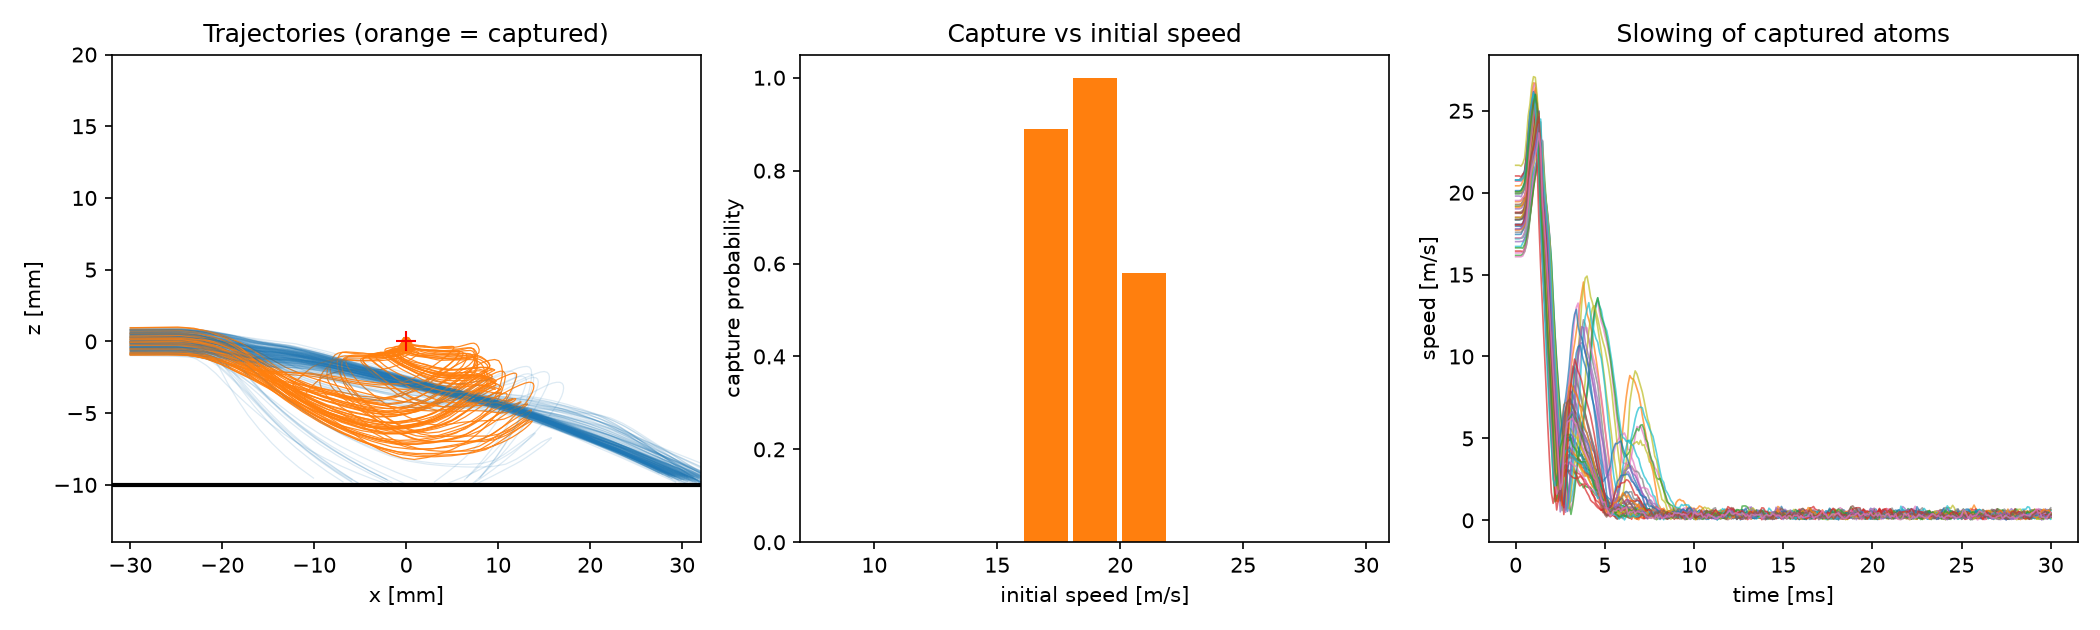
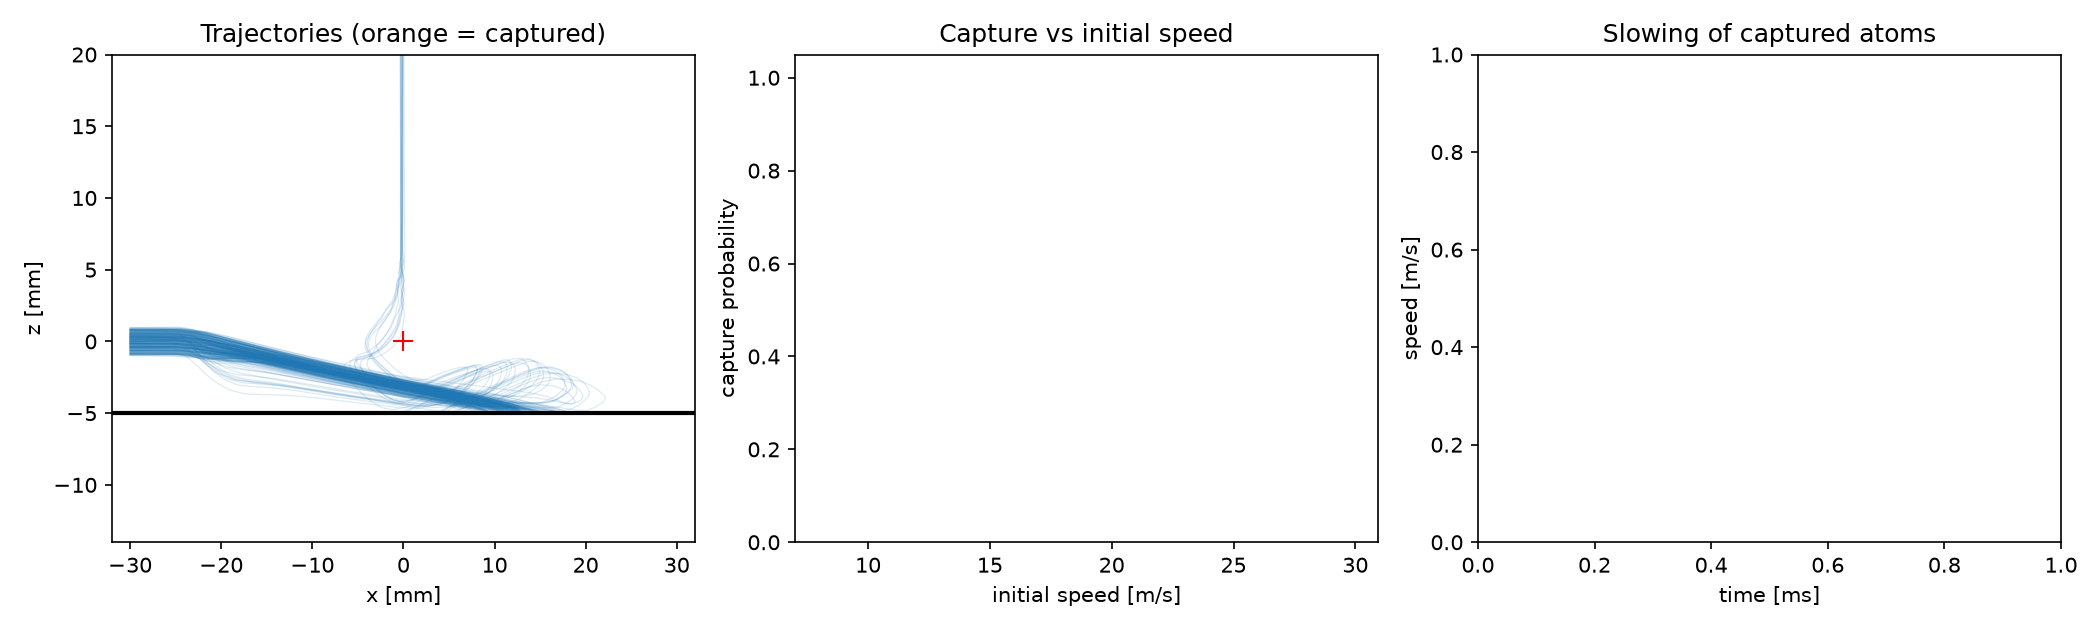
Grating-MOT example: default summary+GIF outputs, balance warning
- The simulation now saves the summary figure and capture GIF by
  default (--no-summary / --no-gif to skip; --plot to also show
  interactively).
- Print the z-momentum balance ratio 3*eta with a warning when the
  diffracted orders over/under-balance the incident beam (only
  eta = 1/3 gives a stable trap; the 1/cos(alpha) intensity compression
  exactly cancels the cos(alpha) force projection, so alpha drops out).
- Document the two trajectory-shaping imbalances in the docstring,
  including the Doppler tilt: a transversely moving atom keeps full
  scattering from the perpendicular incident beam while co-propagating
  diffracted beams are Doppler-suppressed, so the incoming flux sags
  toward the chip independent of eta.

diff --git a/example/mot/mmwave_mot.py b/example/mot/mmwave_mot.py
@@ -30,6 +30,22 @@ below it simply see zero light (they are lost in practice and never
 counted as captured); the zeroth diffraction order and grating losses
 are absorbed into the per-sector efficiency.
 
+Two force imbalances shape the trajectories:
+
+- Static balance: the z-momentum flux ratio of diffracted to incident
+  light is exactly `3 * eta` — the 1/cos(alpha) intensity compression
+  of each diffracted beam cancels the cos(alpha) projection of its
+  push. Only `eta = 1/3` balances; larger eta ejects slow atoms upward,
+  smaller lets the incident beam press the cloud toward the chip.
+- Doppler tilt (why the incoming flux sags toward the chip): for an
+  atom crossing at ~20 m/s the incident beam is perpendicular to the
+  motion (no Doppler shift, full scattering rate, pushing down), while
+  the up-pushing diffracted beams with a co-propagating +x component
+  are Doppler-shifted ~1.5 Gamma out of resonance. The one diffracted
+  beam that is counter-propagating (and Doppler-enhanced) only exists
+  downstream of the trap center. Net: every fast atom is pushed toward
+  the chip while it approaches, independent of eta.
+
 Because a 600 K beam is far faster than any MOT capture velocity, only
 the slow Boltzmann tail can be captured. The simulation samples the
 effusive flux distribution `f(v) ~ v^3 exp(-v^2 / 2 sigma^2)` truncated
@@ -39,10 +55,10 @@ analytically).
 
 Run from the repository root:
 
-    python3 example/mot/mmwave_mot.py
+    python3 example/mot/mmwave_mot.py                 # sim + summary + GIF
     python3 example/mot/mmwave_mot.py --atoms 500 --vmax 35
-    python3 example/mot/mmwave_mot.py --save-plot
-    python3 example/mot/mmwave_mot.py --gif   # animated capture GIF
+    python3 example/mot/mmwave_mot.py --no-gif        # skip the animation
+    python3 example/mot/mmwave_mot.py --save-beams    # beam geometry only
 """
 
 from __future__ import annotations
@@ -382,12 +398,22 @@ def main() -> None:
     parser.add_argument("--duration-ms", type=float, default=30.0)
     parser.add_argument("--detuning-gamma", type=float, default=DETUNING_GAMMA)
     parser.add_argument("--seed", type=int, default=42)
-    parser.add_argument("--plot", action="store_true")
-    parser.add_argument("--save-plot", action="store_true")
+    parser.add_argument(
+        "--plot",
+        action="store_true",
+        help="also show the summary figure interactively",
+    )
+    parser.add_argument(
+        "--summary",
+        action=argparse.BooleanOptionalAction,
+        default=True,
+        help="save the summary figure (default on; --no-summary to skip)",
+    )
     parser.add_argument(
         "--gif",
-        action="store_true",
-        help="render an animated GIF of the capture next to this script",
+        action=argparse.BooleanOptionalAction,
+        default=True,
+        help="render the capture GIF (default on; --no-gif to skip)",
     )
     parser.add_argument(
         "--beams",
@@ -427,6 +453,9 @@ def main() -> None:
         f"  deflection angle    : {np.rad2deg(DEFLECTION_ALPHA_RAD):.0f} deg, "
         f"efficiency {DIFFRACTION_EFFICIENCY:.2f}/sector"
     )
+    balance = 3.0 * DIFFRACTION_EFFICIENCY
+    note = "" if abs(balance - 1.0) < 0.05 else "  <-- UNBALANCED, no stable trap"
+    print(f"  z-momentum balance  : 3*eta = {balance:.2f} (1.00 = balanced){note}")
     print(
         f"  simulated window    : v < {args.vmax:.0f} m/s = "
         f"{window_fraction:.2e} of the beam flux\n"
@@ -497,8 +526,8 @@ def main() -> None:
             f"{float(np.mean(result.scattered_photons[captured])):.0f}"
         )
 
-    if args.plot or args.save_plot:
-        _plot(result, captured, args.save_plot)
+    if args.summary or args.plot:
+        _plot(result, captured, save=args.summary, show=args.plot)
 
     if args.gif:
         _render_gif(result, system)
@@ -528,10 +557,10 @@ def _render_gif(result, system: LightMatterSystem) -> None:
     print(f"\nSaved GIF to {out}")
 
 
-def _plot(result, captured, save: bool) -> None:
+def _plot(result, captured, save: bool, show: bool = False) -> None:
     import matplotlib
 
-    if save:
+    if save and not show:
         matplotlib.use("Agg")
     import matplotlib.pyplot as plt
 
@@ -586,7 +615,7 @@ def _plot(result, captured, save: bool) -> None:
         out = os.path.join(HERE, "mmwave_mot_summary.png")
         fig.savefig(out, dpi=150)
         print(f"\nSaved plot to {out}")
-    else:
+    if show:
         plt.show()
 
 
